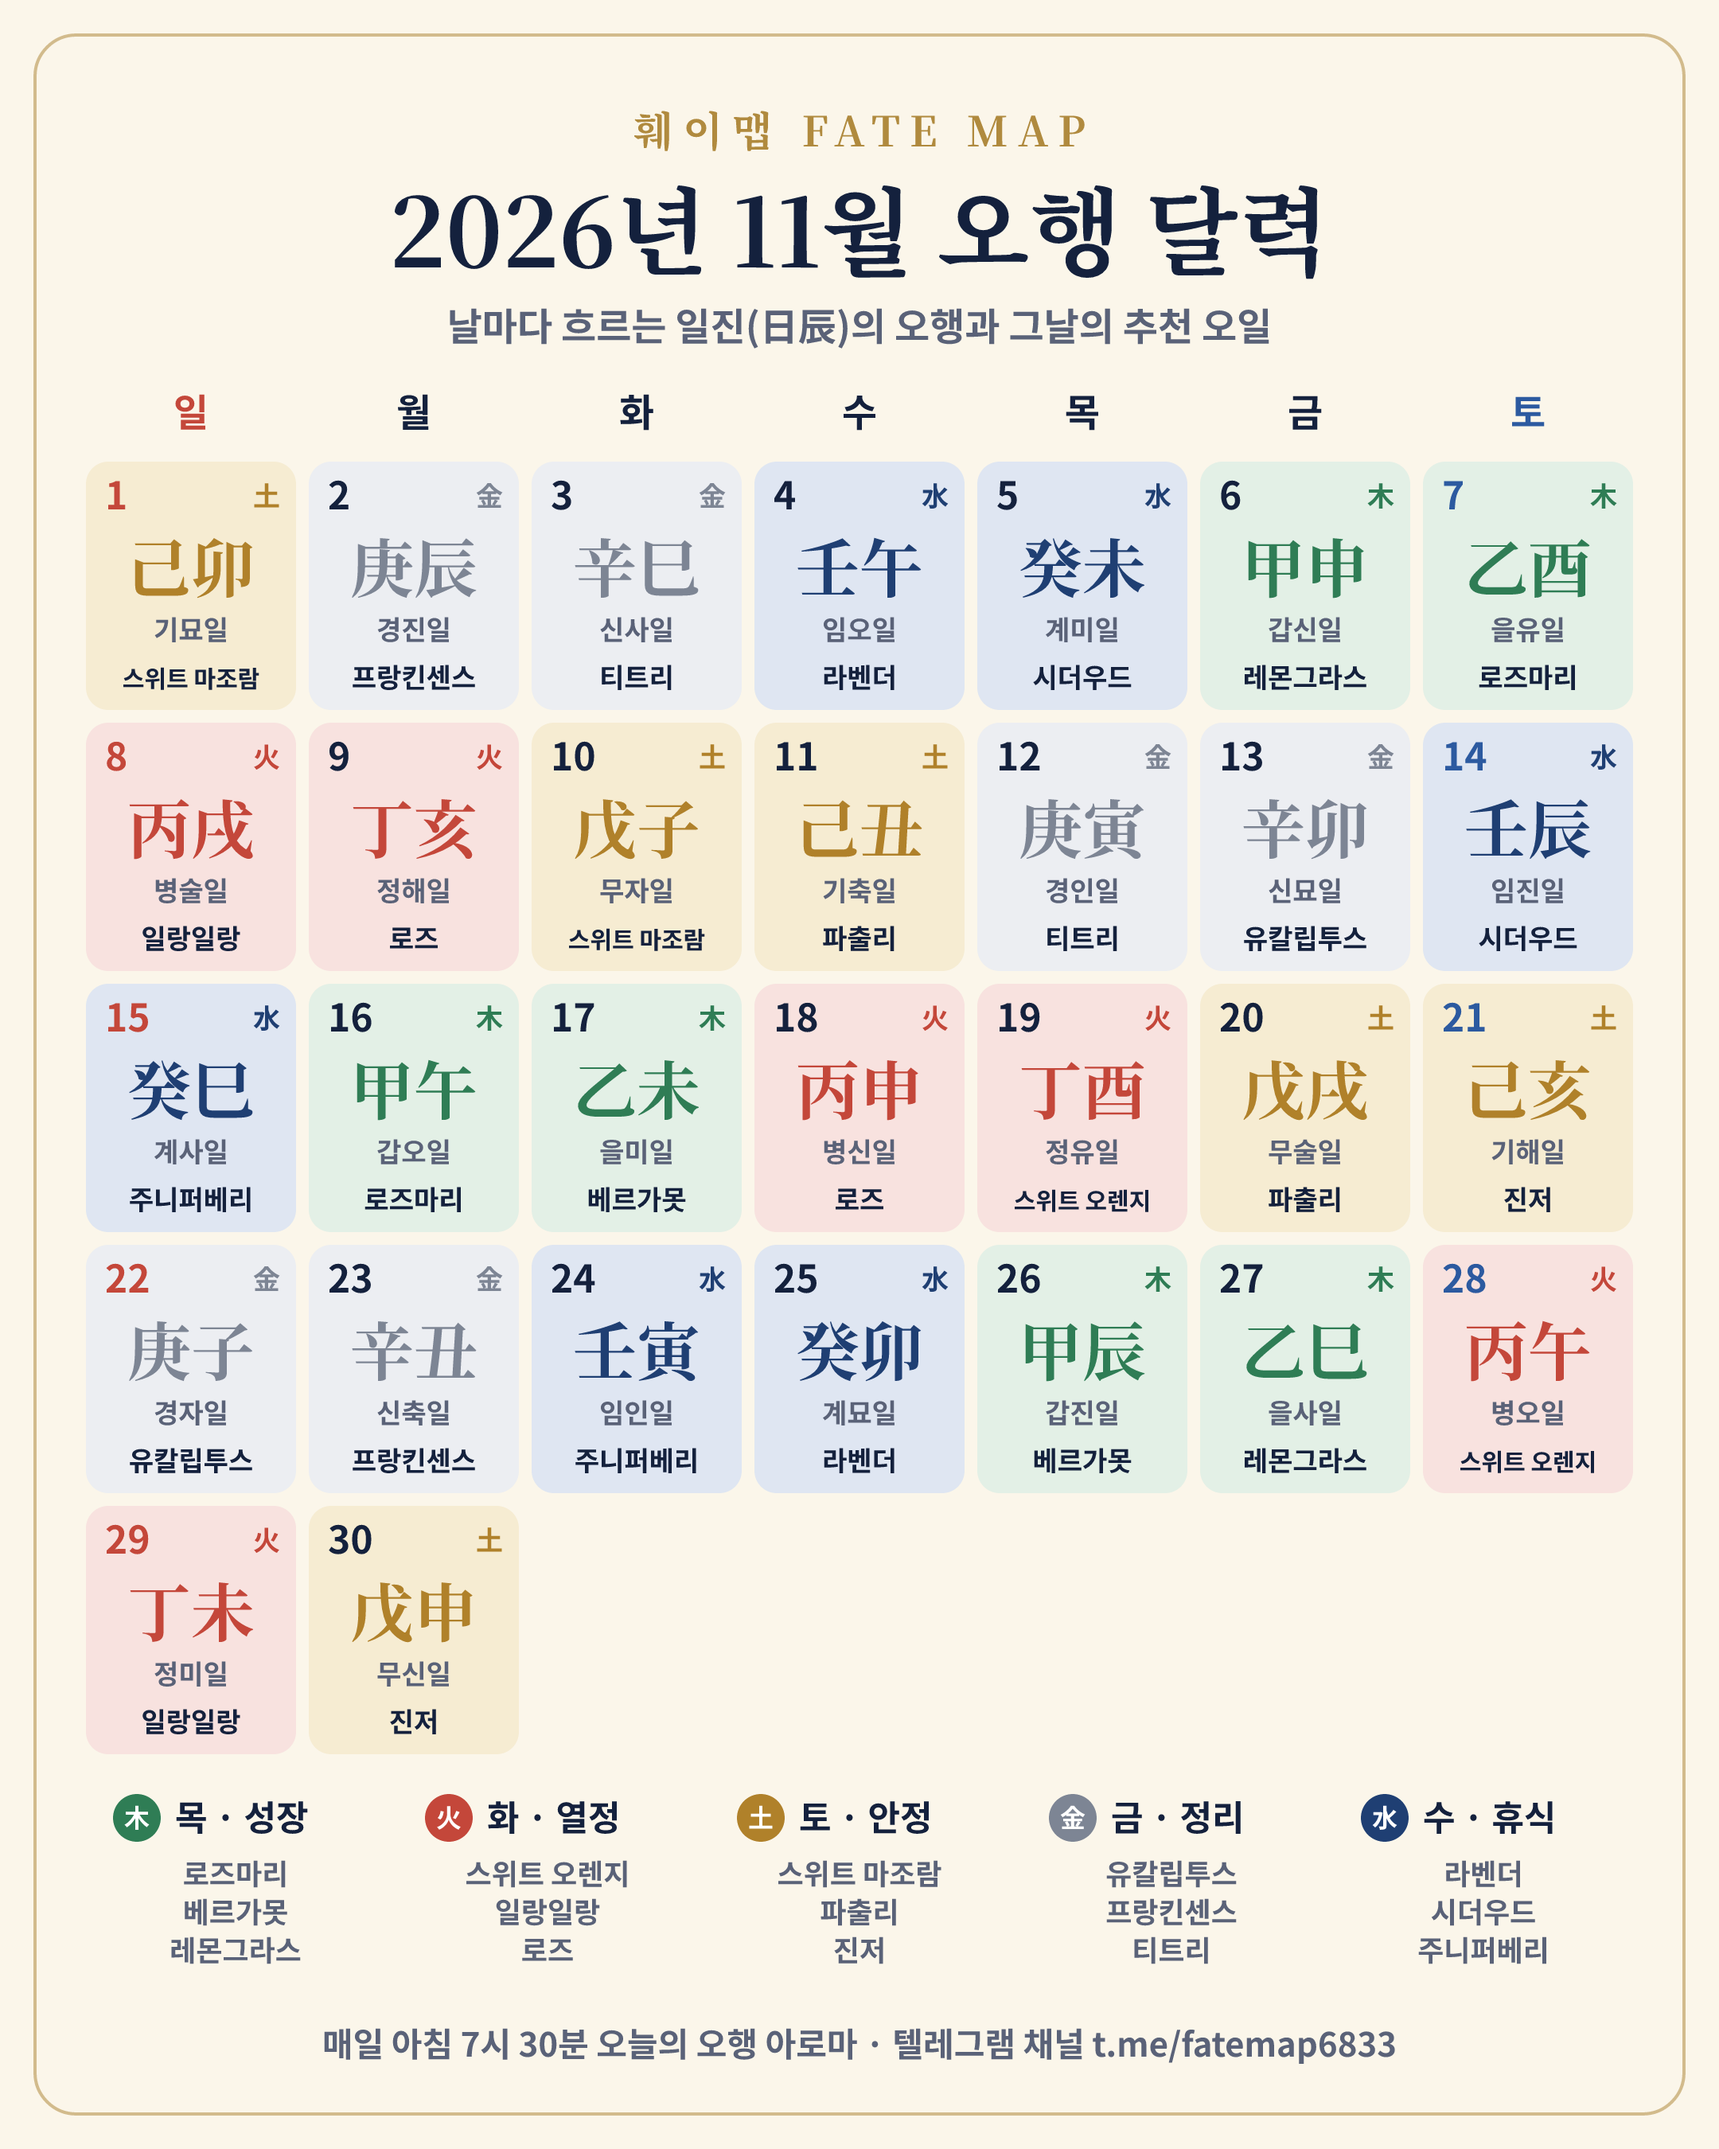
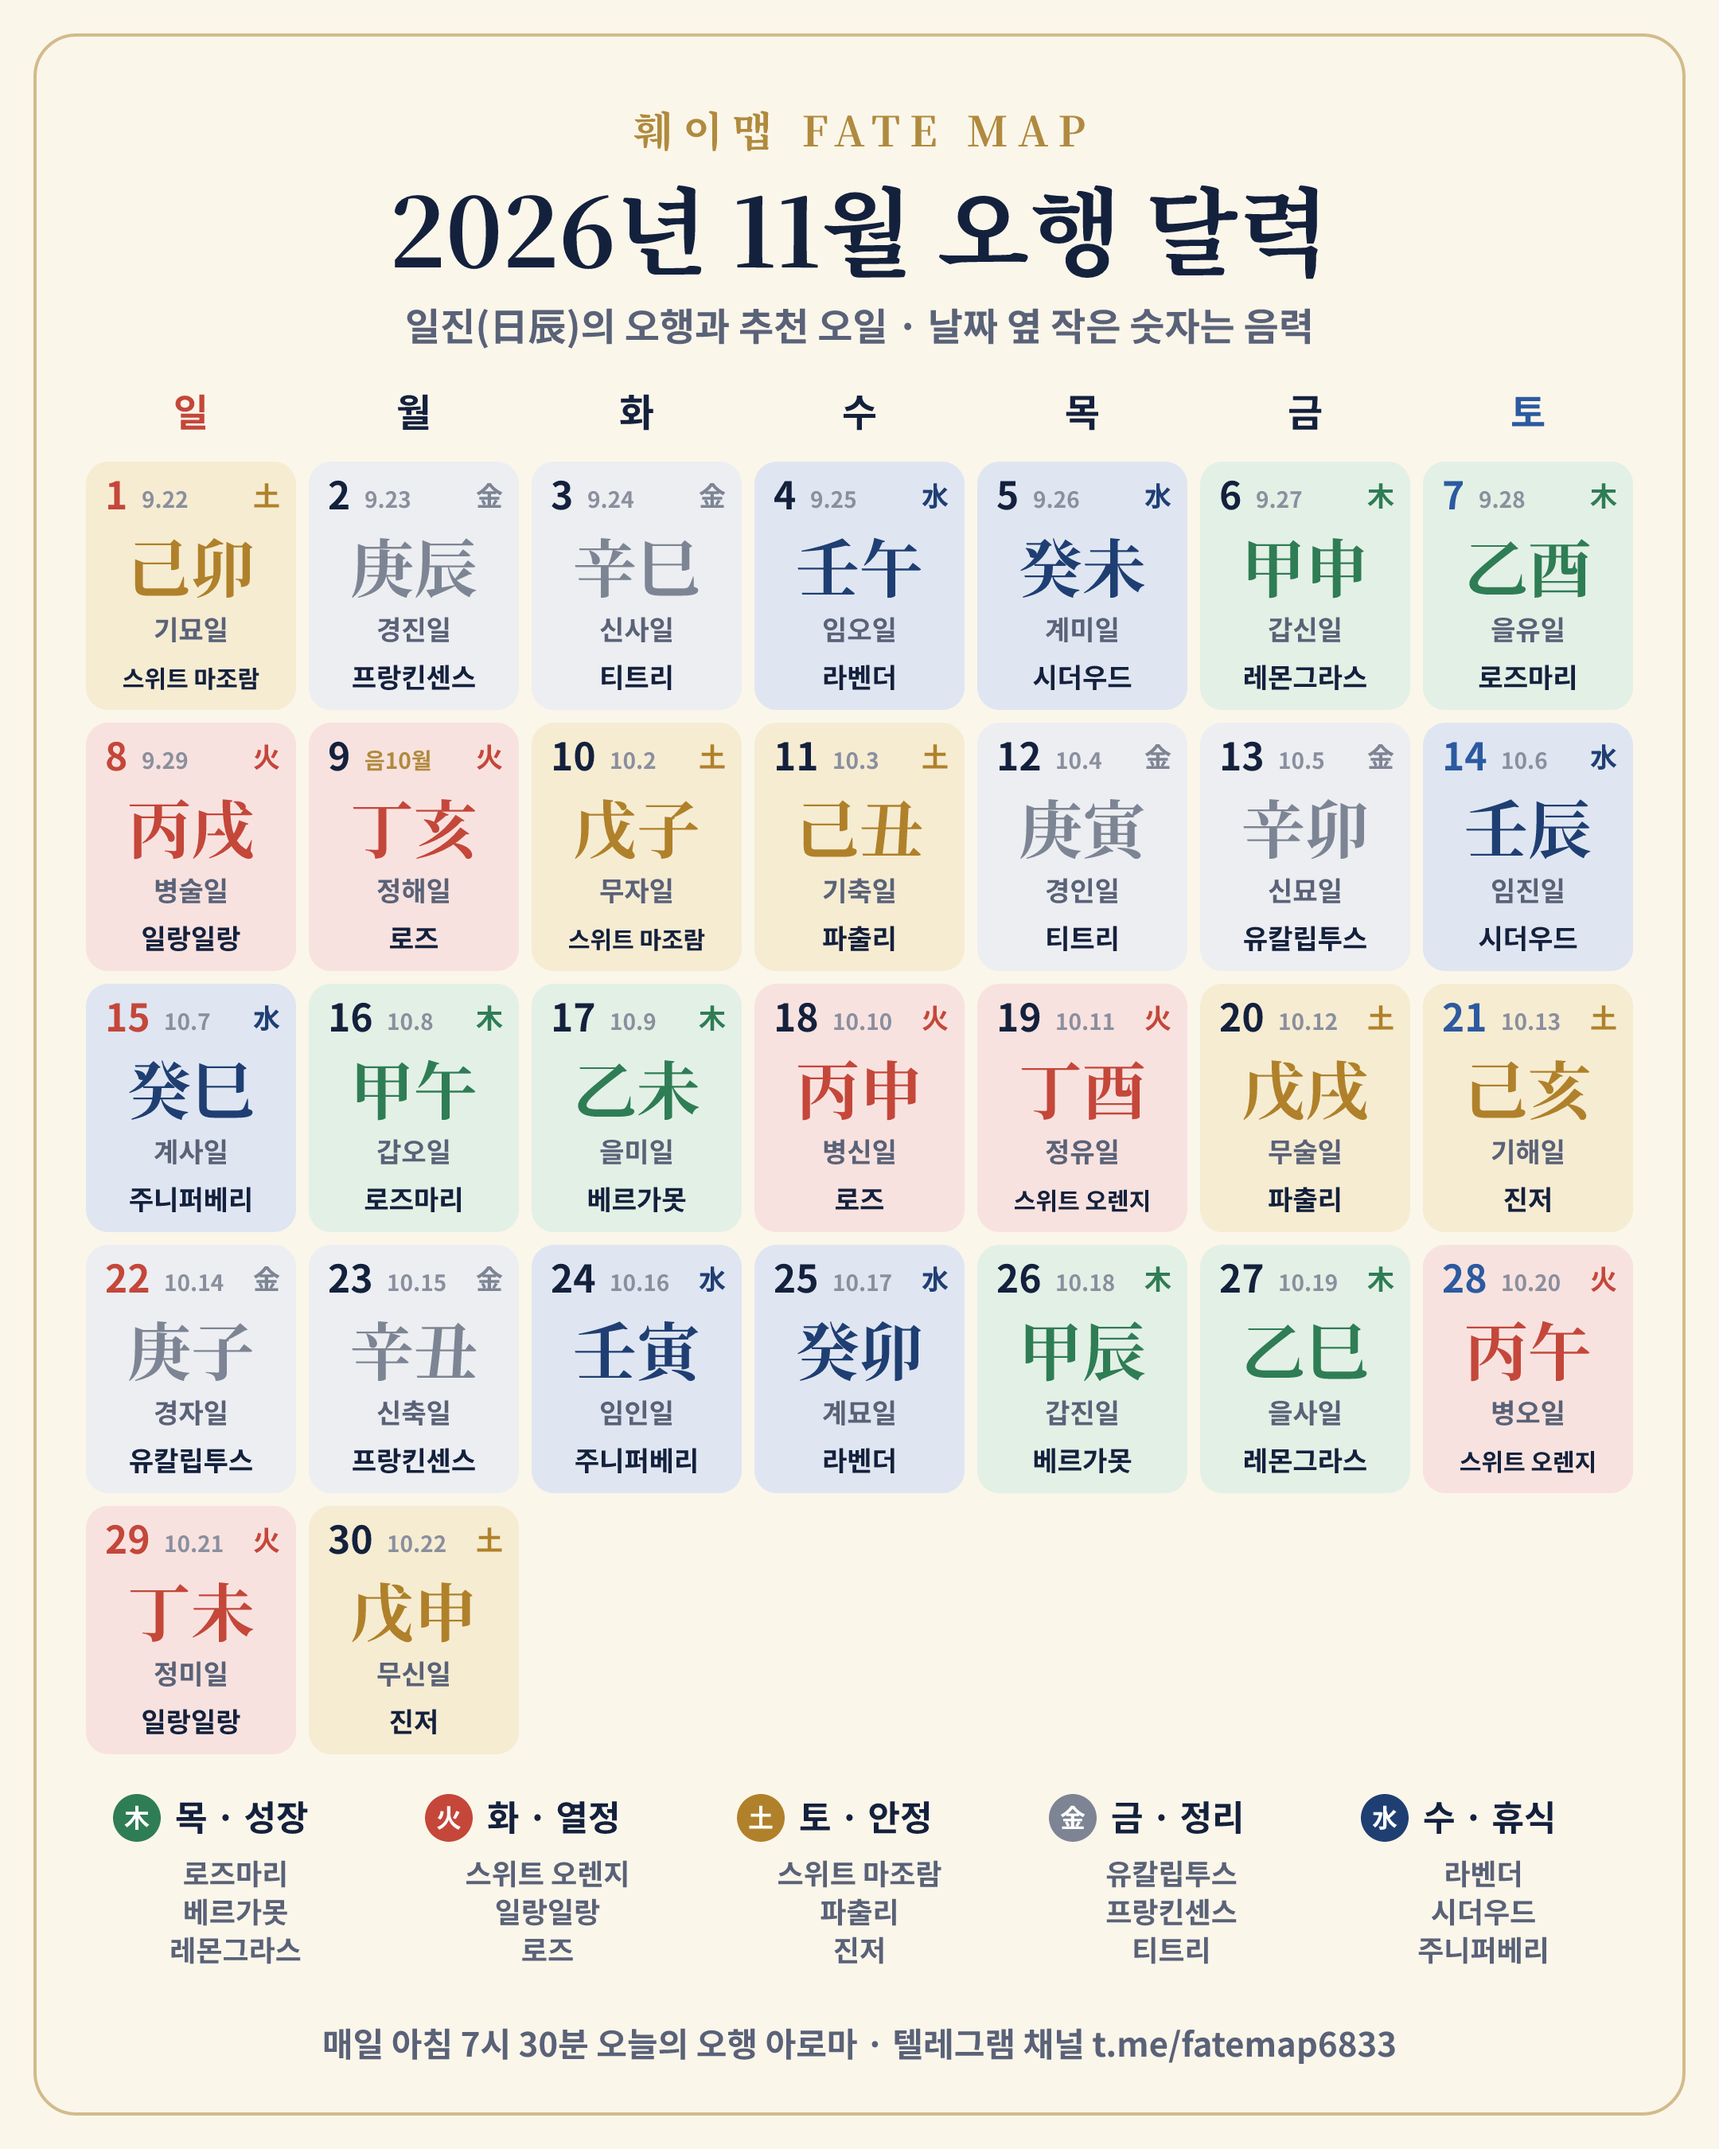
오행 달력에 음력 날짜 추가, 사장님용 고객 생일 표시 옵션(고객 정보는 저장소에 넣지 않음)
Claude-Session: https://claude.ai/code/session_01PVPAQhHP83VcQUdaM8i7Ki

diff --git a/ohaeng-calendar/tool/calendar.ts b/ohaeng-calendar/tool/calendar.ts
@@ -1,6 +1,18 @@
 // 훼이맵 월간 오행 달력 — SVG로 그린 뒤 PNG로 바꿈 (매일 글과 같은 dayInfo 사용)
 import { dayInfo, ELEMENTS } from "./ohaeng.ts";
 import { initWasm, Resvg } from "@resvg/resvg-wasm";
+import KoreanLunarCalendar from "korean-lunar-calendar";
+
+/** 양력 → 한국천문연구원 기준 음력 { month, day, leap } */
+export function lunarOf(y: number, m: number, d: number) {
+  const k = new KoreanLunarCalendar();
+  k.setSolarDate(y, m, d);
+  const l = k.getLunarCalendar();
+  return { year: l.year, month: l.month, day: l.day, leap: !!l.intercalation };
+}
+
+/** 이 달력에 표시할 옵션: births = { 날짜: ["이름(음 3.5)", ...] } — 사장님용에만 넣기 */
+export type CalOpts = { births?: Record<number, string[]> };
 
 const W = 1080, H = 1350;
 const NAVY = "#14213d", GOLD = "#b08a3e", CREAM = "#fbf6ea";
@@ -11,7 +23,7 @@ const EL_WORD = ["성장", "열정", "안정", "정리", "휴식"];
 
 const esc = (s: string) => s.replace(/&/g, "&amp;").replace(/</g, "&lt;");
 
-export function calendarSvg(y: number, m: number): string {
+export function calendarSvg(y: number, m: number, opts: CalOpts = {}): string {
   const first = new Date(Date.UTC(y, m - 1, 1)).getUTCDay();
   const days = new Date(Date.UTC(y, m, 0)).getUTCDate();
   const rows = Math.ceil((first + days) / 7);
@@ -21,7 +33,7 @@ export function calendarSvg(y: number, m: number): string {
   t.push(`<rect x="22" y="22" width="${W - 44}" height="${H - 44}" rx="26" fill="none" stroke="${GOLD}" stroke-opacity=".55" stroke-width="2"/>`);
   t.push(`<text x="${W / 2}" y="92" text-anchor="middle" font-family="Noto Serif KR" font-weight="700" font-size="26" fill="${GOLD}" letter-spacing="6">훼이맵 FATE MAP</text>`);
   t.push(`<text x="${W / 2}" y="168" text-anchor="middle" font-family="Noto Serif KR" font-weight="700" font-size="60" fill="${NAVY}">${y}년 ${m}월 오행 달력</text>`);
-  t.push(`<text x="${W / 2}" y="214" text-anchor="middle" font-family="Noto Sans KR" font-weight="500" font-size="24" fill="#5a6278">날마다 흐르는 일진(日辰)의 오행과 그날의 추천 오일</text>`);
+  t.push(`<text x="${W / 2}" y="214" text-anchor="middle" font-family="Noto Sans KR" font-weight="500" font-size="24" fill="#5a6278">일진(日辰)의 오행과 추천 오일 · 날짜 옆 작은 숫자는 음력</text>`);
   const wd = ["일", "월", "화", "수", "목", "금", "토"];
   wd.forEach((w, i) => {
     const c = i === 0 ? "#c4473a" : i === 6 ? "#2c5aa0" : NAVY;
@@ -34,7 +46,13 @@ export function calendarSvg(y: number, m: number): string {
     const col = EL_COLOR[info.elIndex];
     const dayCol = c === 0 ? "#c4473a" : c === 6 ? "#2c5aa0" : NAVY;
     t.push(`<rect x="${x + 4}" y="${yy + 4}" width="${cw - 8}" height="${ch - 8}" rx="14" fill="${EL_TINT[info.elIndex]}"/>`);
-    t.push(`<text x="${x + 16}" y="${yy + (ch < 150 ? 30 : 34)}" font-family="Noto Sans KR" font-weight="700" font-size="${ch < 150 ? 21 : 24}" fill="${dayCol}">${d}</text>`);
+    const top = yy + (ch < 150 ? 30 : 34);
+    t.push(`<text x="${x + 16}" y="${top}" font-family="Noto Sans KR" font-weight="700" font-size="${ch < 150 ? 21 : 24}" fill="${dayCol}">${d}</text>`);
+    // 음력 (음력 초하루는 'O월'로 굵게)
+    const lu = lunarOf(y, m, d);
+    const lx = x + 16 + (d >= 10 ? (ch < 150 ? 27 : 31) : (ch < 150 ? 15 : 17)) + 6;
+    const luText = lu.day === 1 ? `${lu.leap ? "윤" : ""}${lu.month}월` : `${lu.leap ? "윤" : ""}${lu.month}.${lu.day}`;
+    t.push(`<text x="${lx}" y="${top - 1}" font-family="Noto Sans KR" font-weight="${lu.day === 1 ? 700 : 500}" font-size="${ch < 150 ? 13 : 14}" fill="${lu.day === 1 ? GOLD : "#8a8f9e"}">${lu.day === 1 ? "음" : ""}${luText}</text>`);
     t.push(`<text x="${x + cw - 14}" y="${yy + 32}" text-anchor="end" font-family="Noto Sans KR" font-weight="700" font-size="17" fill="${col}">${info.el.hanja}</text>`);
     // 칸 높이에 맞춰 아래에서부터 배치 (6주인 달은 작게)
     const small = ch < 150;
@@ -42,7 +60,15 @@ export function calendarSvg(y: number, m: number): string {
     const krY = oilY - (small ? 24 : 30);
     const hanY = krY - (small ? 24 : 30);
     t.push(`<text x="${x + cw / 2}" y="${hanY}" text-anchor="middle" font-family="Noto Serif KR" font-weight="700" font-size="${small ? 32 : 40}" fill="${col}">${info.hanja}</text>`);
-    t.push(`<text x="${x + cw / 2}" y="${krY}" text-anchor="middle" font-family="Noto Sans KR" font-weight="500" font-size="${small ? 15 : 17}" fill="#5a6278">${info.kr}일</text>`);
+    const births = opts.births?.[d];
+    if (births?.length) {
+      // 생일: 칸에 금색 테두리 + 간지 한글 자리에 이름
+      t.push(`<rect x="${x + 5}" y="${yy + 5}" width="${cw - 10}" height="${ch - 10}" rx="13" fill="none" stroke="${GOLD}" stroke-width="3"/>`);
+      const who = births.length > 1 ? `${births[0].split("(")[0]} 외 ${births.length - 1}` : births[0].split("(")[0];
+      t.push(`<text x="${x + cw / 2}" y="${krY}" text-anchor="middle" font-family="Noto Sans KR" font-weight="700" font-size="${small ? 14 : 15}" fill="${GOLD}">생일 · ${esc(who)}</text>`);
+    } else {
+      t.push(`<text x="${x + cw / 2}" y="${krY}" text-anchor="middle" font-family="Noto Sans KR" font-weight="500" font-size="${small ? 15 : 17}" fill="#5a6278">${info.kr}일</text>`);
+    }
     t.push(`<text x="${x + cw / 2}" y="${oilY}" text-anchor="middle" font-family="Noto Sans KR" font-weight="500" font-size="${info.oil[0].length > 5 ? 15 : small ? 16 : 17}" fill="${NAVY}">${esc(info.oil[0])}</text>`);
   }
   // 범례
@@ -55,7 +81,13 @@ export function calendarSvg(y: number, m: number): string {
     t.push(`<text x="${cx - 38}" y="${ly}" font-family="Noto Sans KR" font-weight="700" font-size="22" fill="${NAVY}">${el.name} · ${EL_WORD[i]}</text>`);
     el.oils.forEach((o, j) => t.push(`<text x="${cx}" y="${ly + 34 + j * 24}" text-anchor="middle" font-family="Noto Sans KR" font-weight="500" font-size="18" fill="#5a6278">${esc(o[0])}</text>`));
   });
-  t.push(`<text x="${W / 2}" y="${H - 58}" text-anchor="middle" font-family="Noto Sans KR" font-weight="500" font-size="21" fill="#5a6278">매일 아침 7시 30분 오늘의 오행 아로마 · 텔레그램 채널 t.me/fatemap6833</text>`);
+  const all = Object.entries(opts.births ?? {}).flatMap(([d, ns]) => ns.map((n) => `${d}일 ${n}`));
+  if (all.length) {
+    const line = all.length > 4 ? all.slice(0, 4).join(" · ") + ` 외 ${all.length - 4}명` : all.join(" · ");
+    t.push(`<text x="${W / 2}" y="${H - 58}" text-anchor="middle" font-family="Noto Sans KR" font-weight="700" font-size="${line.length > 48 ? 17 : 20}" fill="${GOLD}">이달의 고객 생일 · ${esc(line)}</text>`);
+  } else {
+    t.push(`<text x="${W / 2}" y="${H - 58}" text-anchor="middle" font-family="Noto Sans KR" font-weight="500" font-size="21" fill="#5a6278">매일 아침 7시 30분 오늘의 오행 아로마 · 텔레그램 채널 t.me/fatemap6833</text>`);
+  }
   return `<svg xmlns="http://www.w3.org/2000/svg" width="${W}" height="${H}" viewBox="0 0 ${W} ${H}">${t.join("")}</svg>`;
 }
 
@@ -75,10 +107,10 @@ async function fontsFor(svg: string): Promise<Uint8Array[]> {
 }
 
 let wasmReady: Promise<void> | null = null;
-export async function calendarPng(y: number, m: number, wasm?: Uint8Array): Promise<Uint8Array> {
+export async function calendarPng(y: number, m: number, wasm?: Uint8Array, opts: CalOpts = {}): Promise<Uint8Array> {
   if (!wasmReady) wasmReady = initWasm(wasm ?? fetch("https://unpkg.com/@resvg/resvg-wasm@2.6.2/index_bg.wasm"));
   await wasmReady;
-  const svg = calendarSvg(y, m);
+  const svg = calendarSvg(y, m, opts);
   const fontBuffers = await fontsFor(svg);
   const r = new Resvg(svg, { fitTo: { mode: "width", value: W * 2 }, font: { fontBuffers, loadSystemFonts: false, defaultFontFamily: "Noto Sans KR" } });
   return r.render().asPng();

diff --git a/ohaeng-calendar/tool/make.ts b/ohaeng-calendar/tool/make.ts
@@ -1,9 +1,17 @@
 // 사용법: (이 폴더에서) npm install && node make.ts 2026 12
-// → ../2026-12.png 저장. 날짜별 일진은 lunar_python 만세력과 대조해 확인하세요.
+// → ../2026-12.png 저장 (공개용: 음력 표시, 고객 정보 없음)
+// 사장님용: node make.ts 2026 12 --births 고객.json --out /저장소-밖/경로.png
+//   고객.json = [{"name":"홍길동","birth":"1985-03-12","lunar":false}, ...]  ※ 고객 정보 파일·사장님용 달력은 저장소에 올리지 마세요
 import { calendarPng } from "./calendar.ts";
+import { birthdaysIn } from "./births.ts";
 import { readFileSync, writeFileSync } from "node:fs";
-const [y, m] = process.argv.slice(2).map(Number);
+const args = process.argv.slice(2);
+const [y, m] = args.slice(0, 2).map(Number);
+const opt = (k: string) => { const i = args.indexOf(k); return i >= 0 ? args[i + 1] : undefined; };
 const wasm = readFileSync("node_modules/@resvg/resvg-wasm/index_bg.wasm");
-const out = `../${y}-${String(m).padStart(2, "0")}.png`;
-writeFileSync(out, await calendarPng(y, m, wasm));
-console.log("저장:", out);
+const bfile = opt("--births");
+const births = bfile ? birthdaysIn(y, m, JSON.parse(readFileSync(bfile, "utf8"))) : undefined;
+const out = opt("--out") ?? `../${y}-${String(m).padStart(2, "0")}.png`;
+if (births && !opt("--out")) throw new Error("고객 생일이 든 달력은 --out 으로 저장소 밖 경로를 지정하세요");
+writeFileSync(out, await calendarPng(y, m, wasm, { births }));
+console.log("저장:", out, births ? "생일 " + JSON.stringify(births) : "");

diff --git a/ohaeng-calendar/tool/births.ts b/ohaeng-calendar/tool/births.ts
@@ -1,0 +1,31 @@
+// 고객 생일 → 해당 연·월의 양력 날짜 (음력 생일은 그해 음력 날짜를 양력으로 바꿔서)
+import KoreanLunarCalendar from "korean-lunar-calendar";
+
+export type Customer = { name: string; birth: string; lunar: boolean };
+
+function lunarToSolar(ly: number, lm: number, ld: number) {
+  const k = new KoreanLunarCalendar();
+  // 그해에 30일이 없는 달이면 29일로 (윤달 생일은 평달로 셉니다)
+  for (const d of [ld, ld - 1]) if (d > 0 && k.setLunarDate(ly, lm, d, false)) return k.getSolarCalendar();
+  return null;
+}
+
+export function birthdaysIn(y: number, m: number, list: Customer[]): Record<number, string[]> {
+  const out: Record<number, string[]> = {};
+  const add = (day: number, label: string) => { (out[day] ??= []).includes(label) || out[day].push(label); };
+  for (const c of list) {
+    const mm = /^(\d{4})-(\d{2})-(\d{2})/.exec(c.birth);
+    if (!mm || !c.name) continue;
+    const bm = Number(mm[2]), bd = Number(mm[3]);
+    if (!c.lunar) {
+      if (bm === m) add(bd, c.name);
+      continue;
+    }
+    // 음력 생일: 양력 m월에 걸칠 수 있는 음력 연도(전해·그해)를 모두 확인
+    for (const ly of [y - 1, y]) {
+      const s = lunarToSolar(ly, bm, bd);
+      if (s && s.year === y && s.month === m) add(s.day, `${c.name}(음 ${bm}.${bd})`);
+    }
+  }
+  return out;
+}

diff --git a/ohaeng-calendar/README.md b/ohaeng-calendar/README.md
@@ -3,5 +3,9 @@
 매달 말일에 다음 달 달력(`YYYY-MM.png`, 2160×2700)을 이 폴더에 저장합니다.
 날짜별 일진(간지)·오행·추천 오일은 텔레그램 매일 아침 글과 같은 규칙으로 계산하고,
 저장 전 만세력(lunar_python)과 하루씩 대조합니다.
+날짜 옆 작은 숫자는 한국천문연구원 기준 음력(korean-lunar-calendar)입니다.
+
+고객 생일을 표시한 **사장님용 달력은 개인정보라 이 저장소에 올리지 않습니다.**
+(`tool/make.ts --births 고객.json --out 저장소-밖-경로.png` 로 만들어 사장님께만 전달)
 
 - 2026-11.png — 2026년 11월
